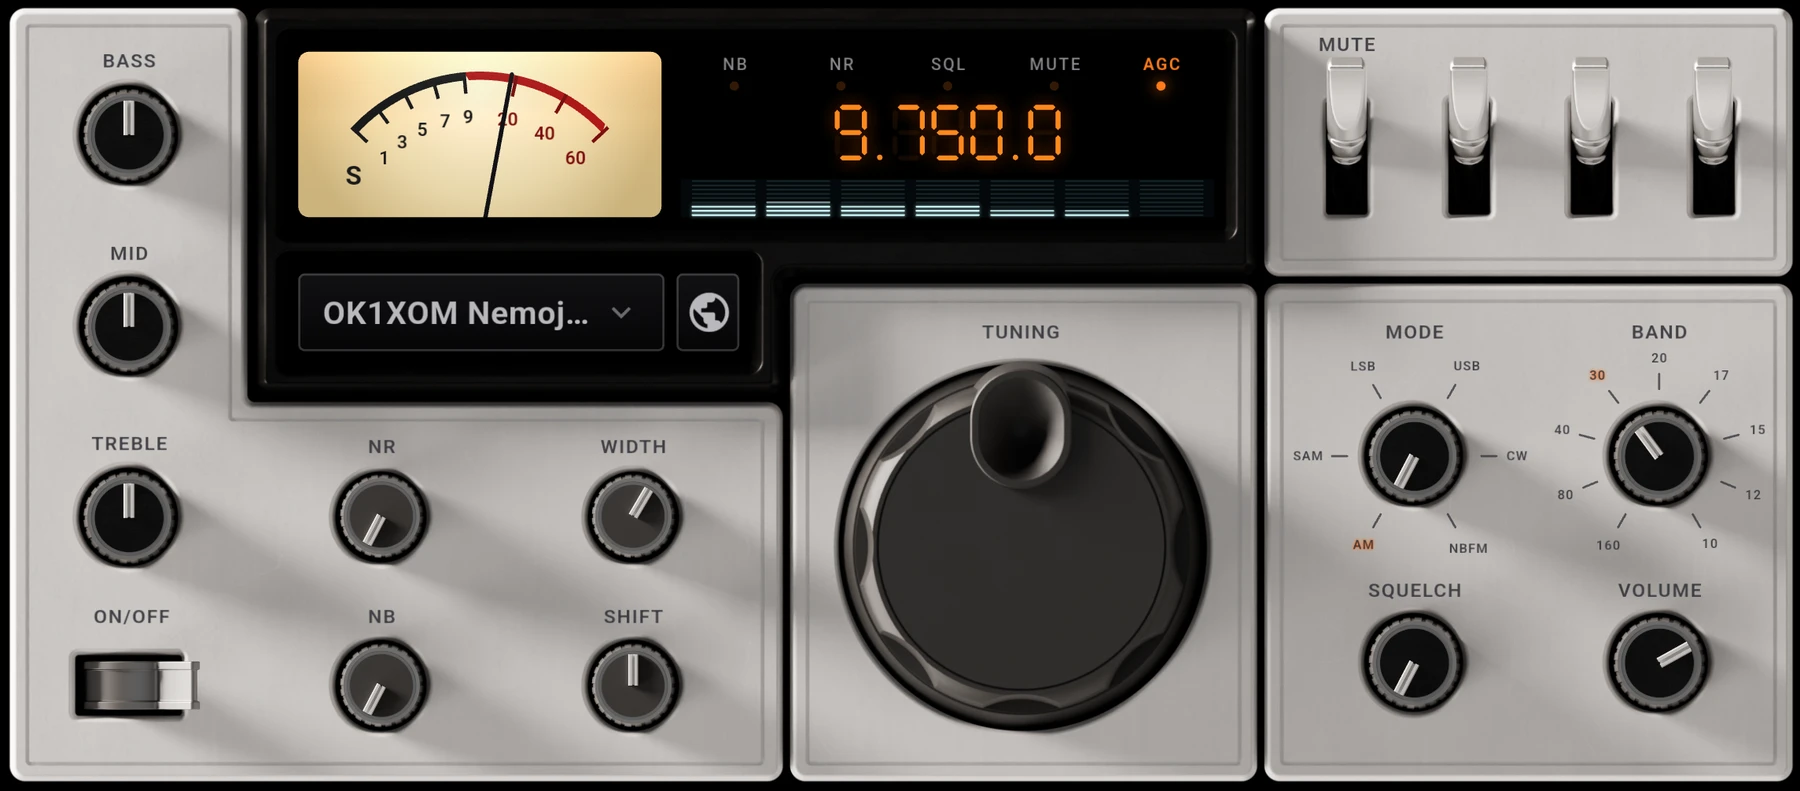
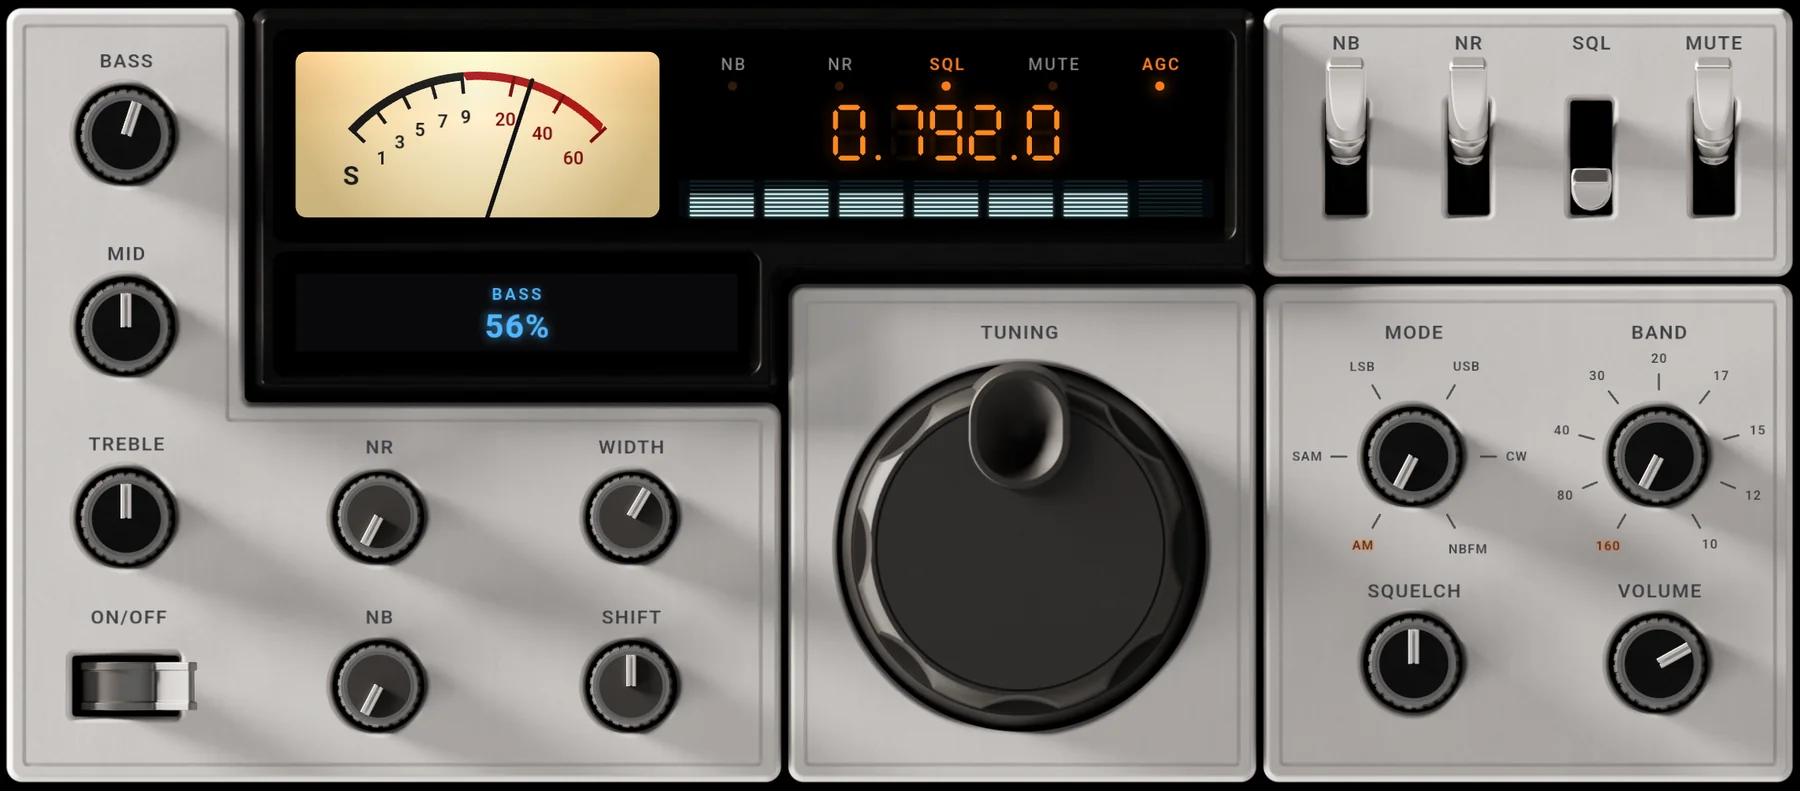
Swap SwR panel image and hide theme/rotate toggles

diff --git a/index.html b/index.html
@@ -185,7 +185,7 @@
     /* ================================================================= */
     /* THEME TOGGLE */
     /* ================================================================= */
-    .theme-toggle { display: flex; align-items: center; }
+    .theme-toggle { display: none; align-items: center; }
 
     .theme-switch-input { display: none; }
 
@@ -250,7 +250,7 @@
     }
 
     @media (max-width: 768px) {
-        .manual-rotate-toggle { display: flex; }
+        .manual-rotate-toggle { display: none; }
     }
 
     html.dark-theme .manual-rotate-toggle {
